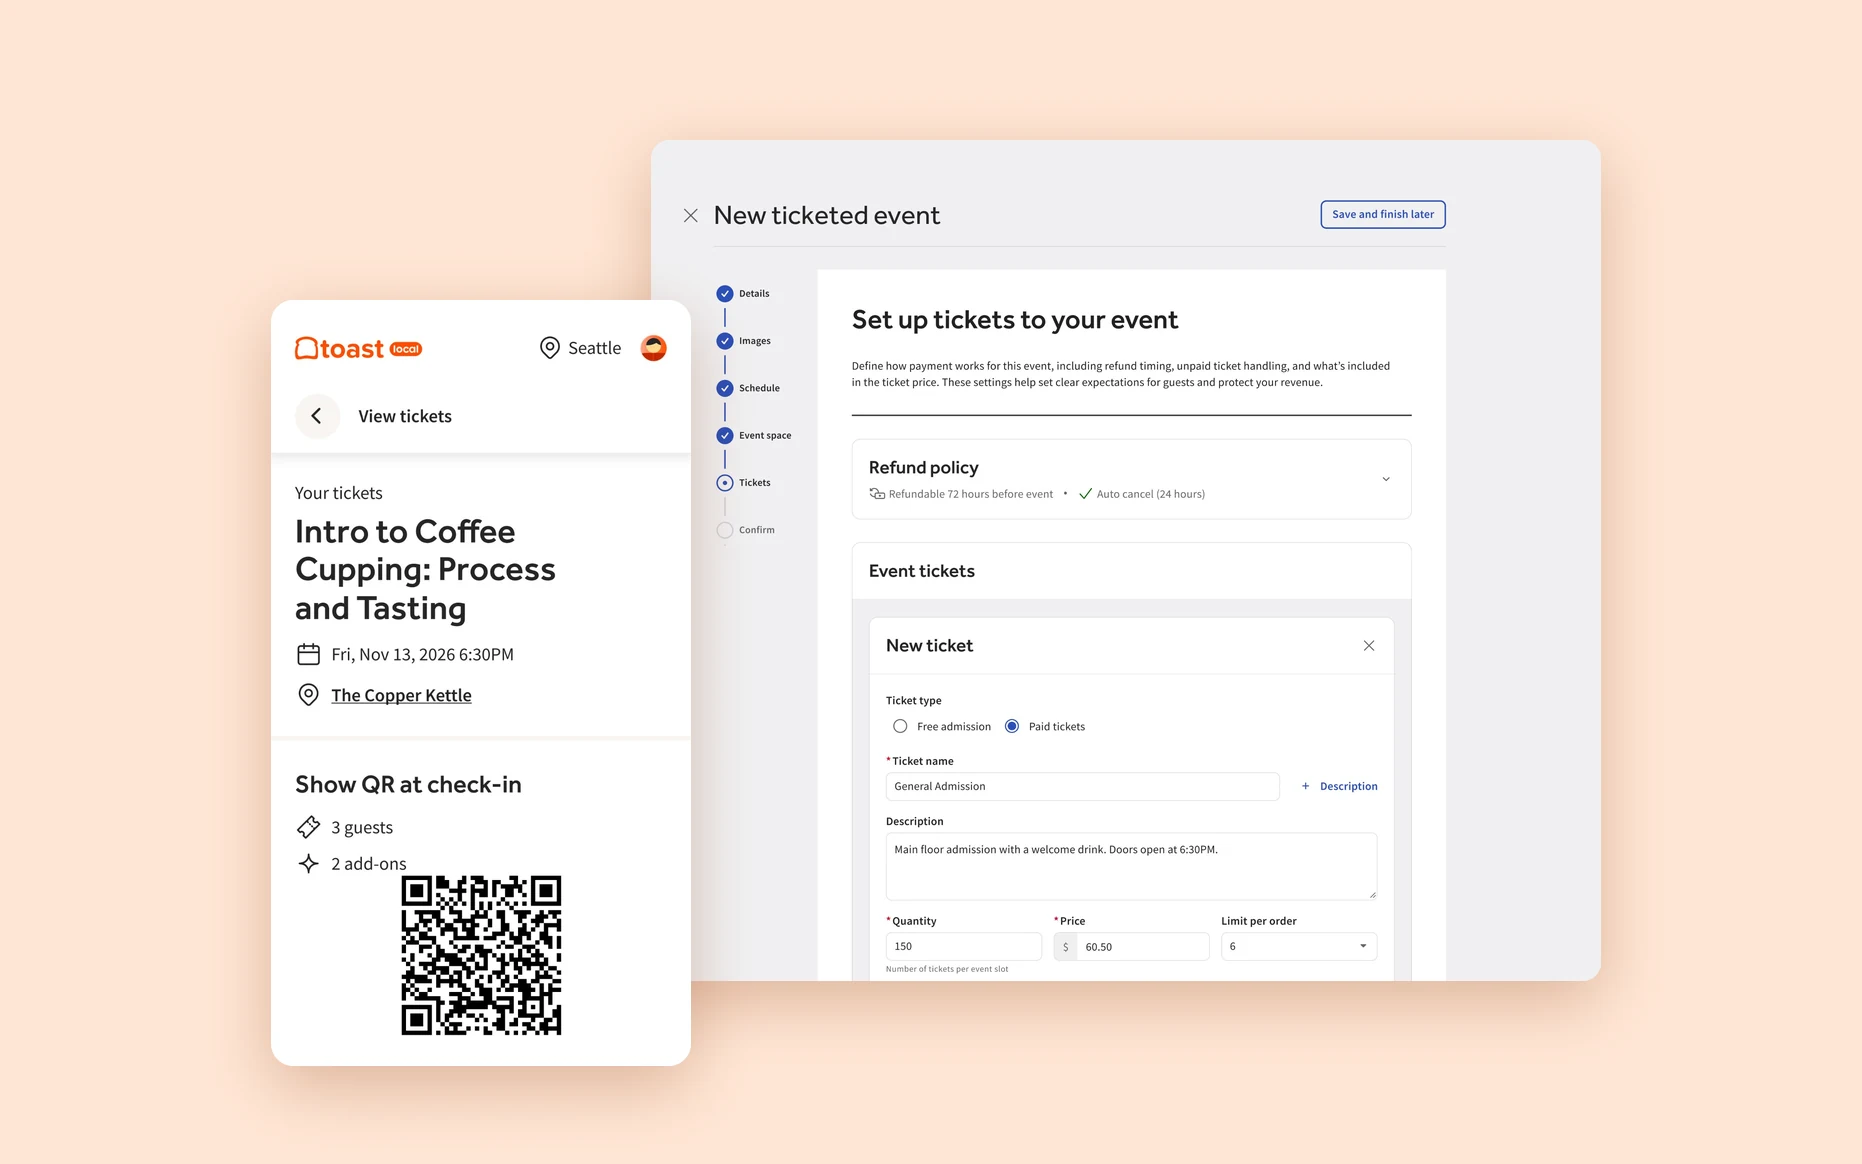
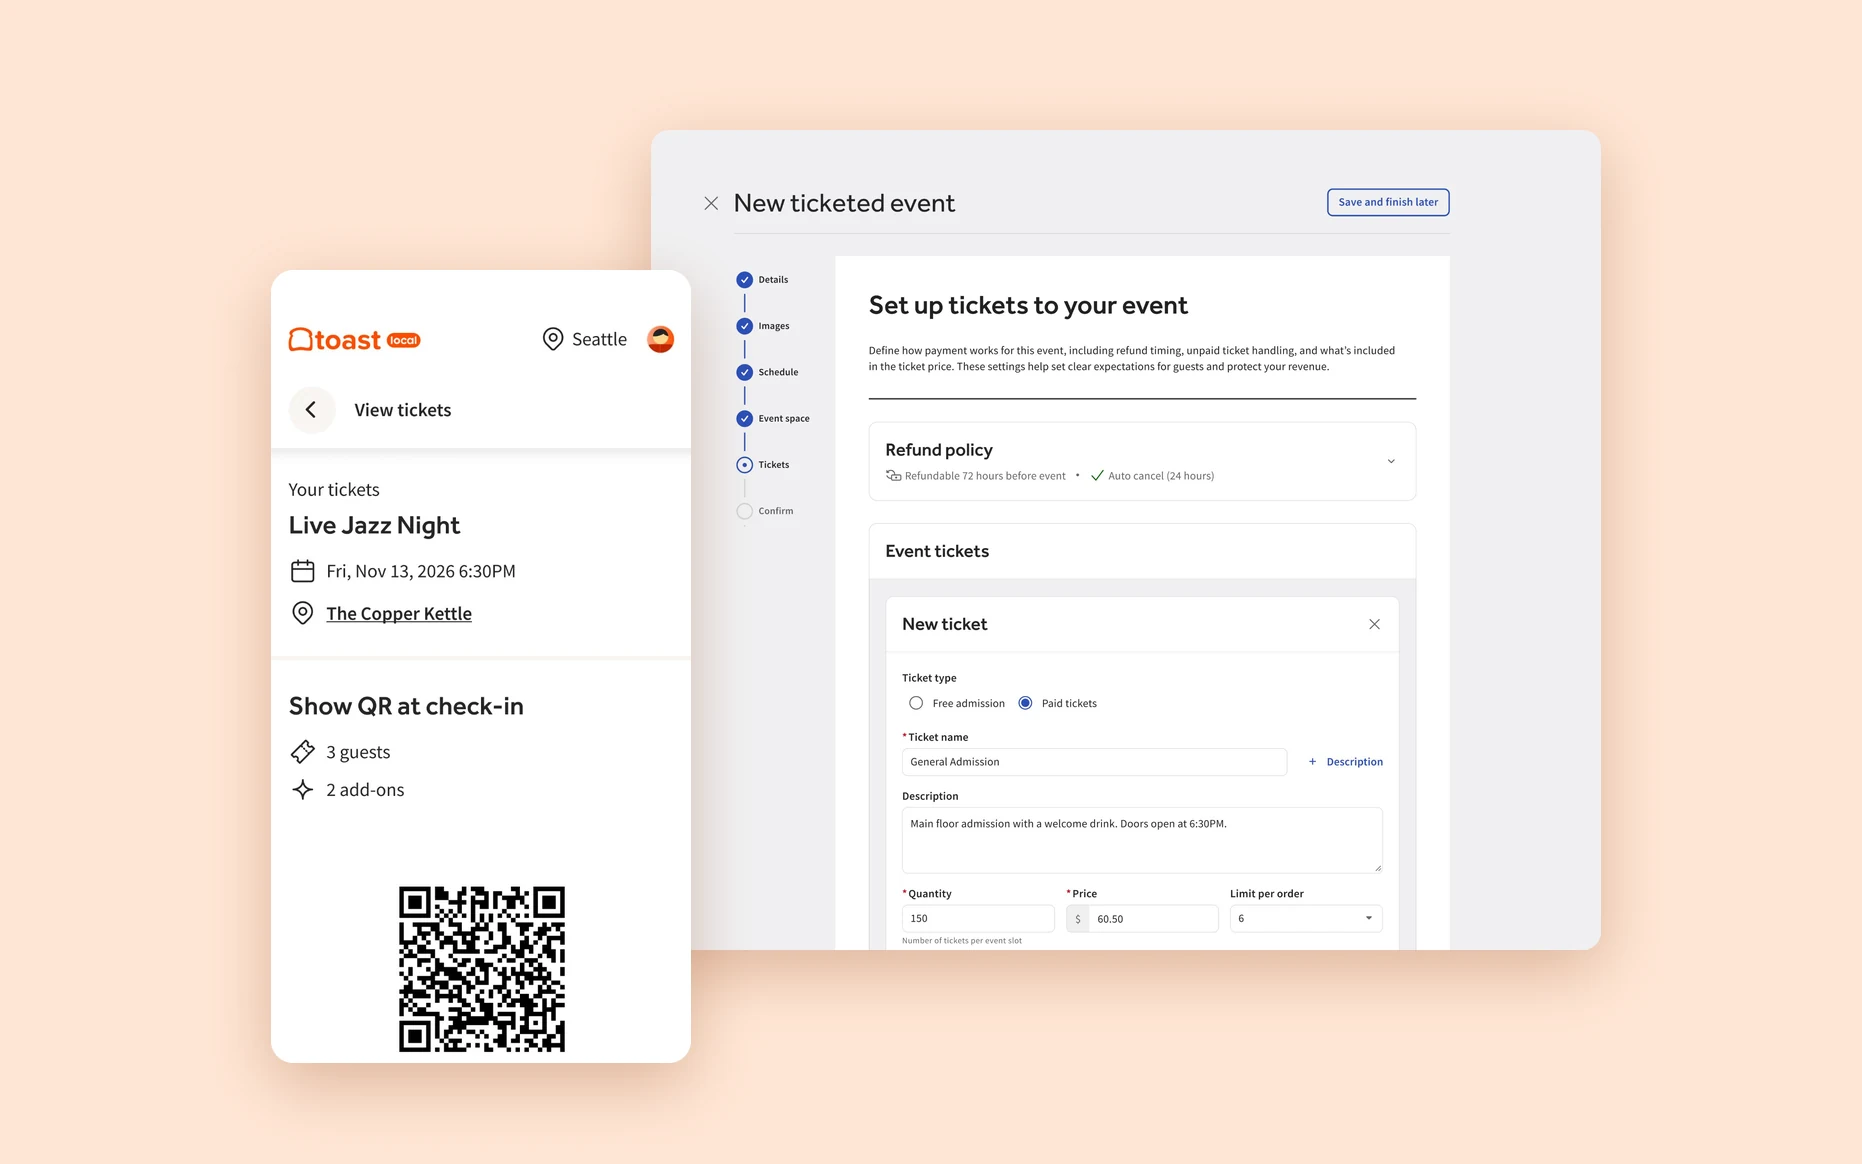
Update Event Ticketing cover with the latest screens
Claude-Session: https://claude.ai/code/session_01L6Cc1x5TrNVTPiYhATRg52

diff --git a/index.html b/index.html
@@ -585,7 +585,7 @@
         data-line="Helping restaurants sell tickets to their events"
         data-stats='[{"v":100,"pre":"$","suf":"K+","label":"ticket sales"},{"text":"End-to-end","label":"checkout to event setup"}]'>
         <button type="button" class="shot-btn">
-          <img class="media" src="images/event-ticketing.webp" width="1862" height="1164" alt="Event Ticketing on Toast: a guest's tickets with a QR code for check-in, and the restaurant setting up tickets for a new event" loading="lazy" decoding="async">
+          <img class="media" src="images/event-ticketing.webp" width="1862" height="1164" alt="Event Ticketing on Toast: a guest's tickets to Live Jazz Night with a QR code for check-in, and the restaurant setting up tickets for a new event" loading="lazy" decoding="async">
           <span class="pill"><b>Event Ticketing</b> <span>· Toast</span></span>
         </button>
       </figure>
